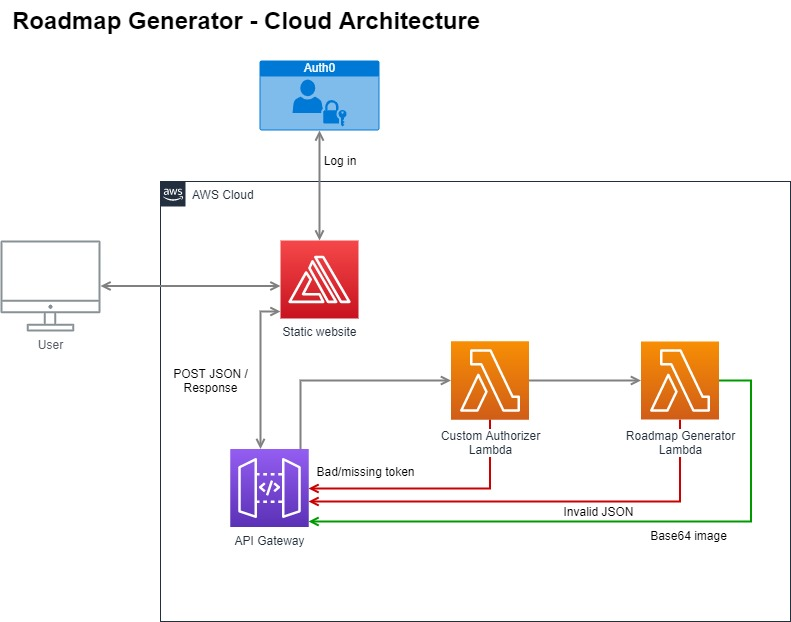
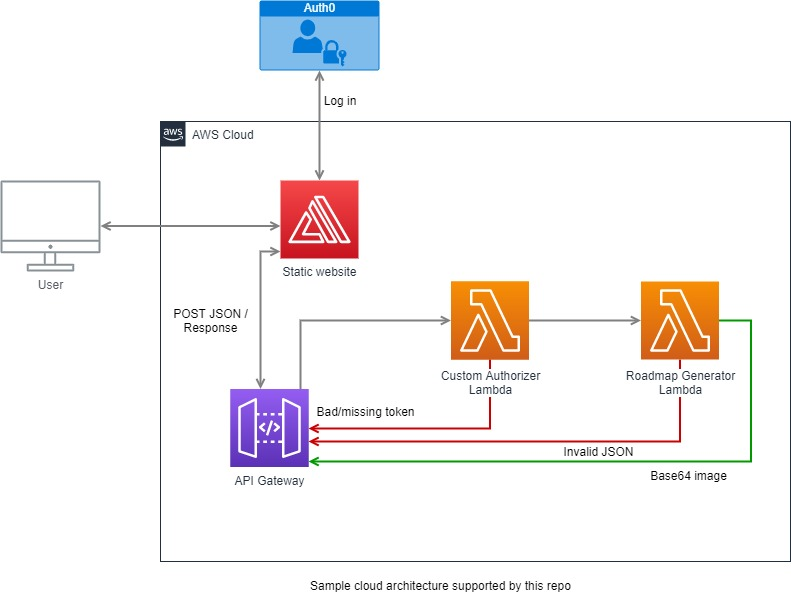
Fix path to image (#20)

Changed region(s): [[0.0, 0.0, 1.0, 0.897], [0.2124, 0.9568, 1.0, 1.0], [0.9406, 0.8073, 0.9709, 0.8372]]

diff --git a/DotNet/Readme.md b/DotNet/Readme.md
@@ -8,7 +8,7 @@ The core of the code is in a class library. It is written in .NET Core and uses 
 
 While the logic in this repo can be deployed to the AWS cloud, there is currently no infrastructure-as-code to do an automated deployment. The developers of this repo used the following pictured architecture successfully. All cloud components were manually deployed, and Auth0 was used to manage authenticating between components as needed.
 
-![image](https://github.com/fugro/AutoTimeLiner/architecture.jpg)
+![image](../architecture.jpg)
 
 ## Tests
 
